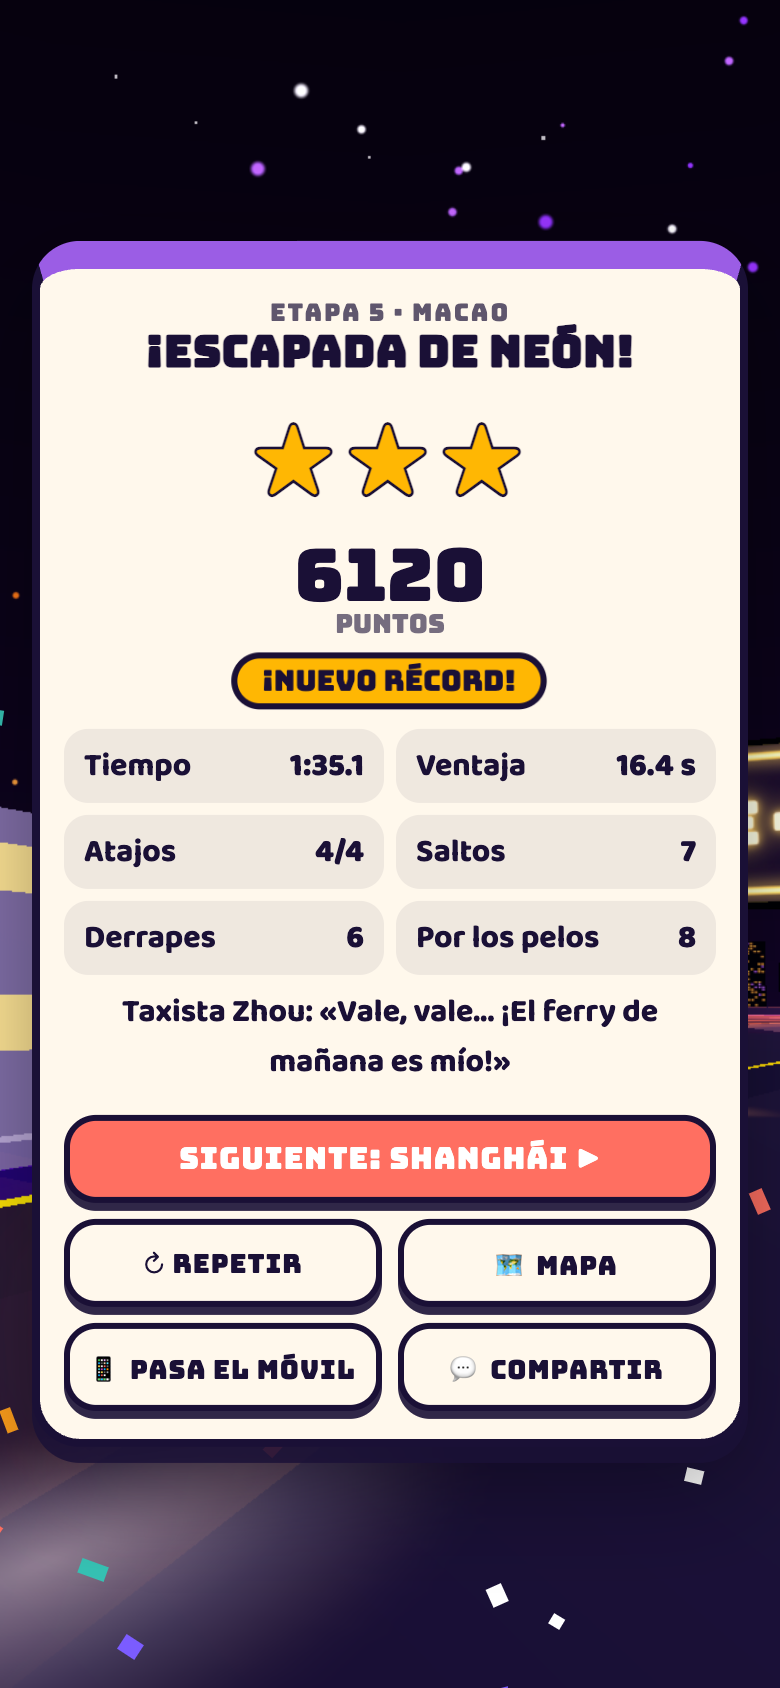
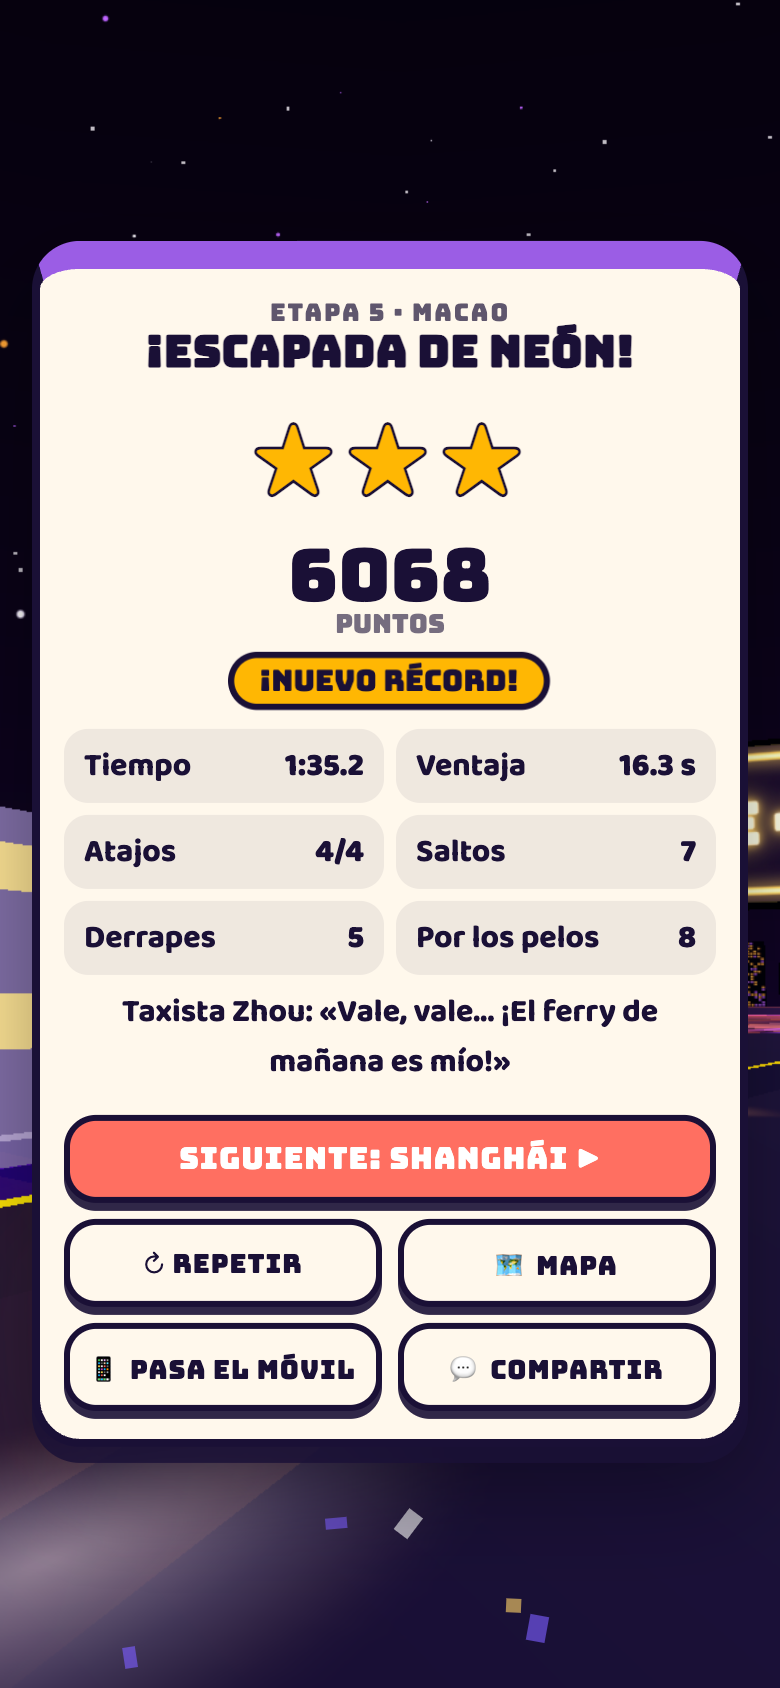
Macao ronda 3: retrovisor solo con el taxi cerca, HUD opaco, llegada como cinemática

diff --git a/src/stages/macao/index.js b/src/stages/macao/index.js
@@ -392,7 +392,7 @@ export default {
               world.throwFruit(c.p, fwd, st.speed);
               fx.emit(5, c.p, { colors: ['#ffb347', '#ff6b6b'], vel: { x: fwd.x * 3, y: 3, z: fwd.z * 3 }, velSpread: 3, life: 0.5, size: 0.18, gravity: -12 });
               ctx.audio.sfx('hit', { vol: 0.5, pitch: 1.4 }); ctx.engine.shake(0.15);
-              if (st.crates % 3 === 1) shout('¡FRUTA AL AIRE!', { size: 'peque', color: '#8ac926' });
+              if (st.crates % 3 === 1) shout('¡FRUTA AL AIRE!', { size: 'peque', color: '#ffe66d' });
             }
           });
         }
@@ -491,13 +491,13 @@ export default {
 
         // retrovisor: solo cuando el taxi va cerca por detrás
         const gap = st.prog - tx.s;
-        let mirrorOn = st.running && !st.done && gap > 2 && gap < 55 && engine.qualityName !== 'baja' && !engine.battery;
+        let mirrorOn = st.running && !st.done && gap > 2 && gap < 40 && engine.qualityName !== 'baja' && !engine.battery;
         if (mirrorOn) {
           const r = ui.mirrorRect;
           mirrorCam.aspect = r.w / r.h; mirrorCam.updateProjectionMatrix();
           const yb = new THREE.Vector3(-Math.sin(st.yaw), 0, -Math.cos(st.yaw));
-          mirrorCam.position.set(pos.x + yb.x * 2.3, st.y + 1.35, pos.z + yb.z * 2.3);
-          mirrorCam.lookAt(pos.x + yb.x * 30, st.y + 0.6, pos.z + yb.z * 30);
+          mirrorCam.position.set(pos.x + yb.x * 2.3, st.y + 1.5, pos.z + yb.z * 2.3);
+          { const tp = taxi.group.position; mirrorCam.lookAt(tp.x, tp.y + 0.8, tp.z); mirrorCam.fov = clamp(2 * Math.atan(3.2 / Math.max(4, gap)) * 180 / Math.PI, 12, 48); mirrorCam.updateProjectionMatrix(); }
           mirrorCam.updateMatrixWorld();
           tmpV.copy(taxi.group.position); tmpV.y += 1; tmpV.project(mirrorCam);
           mirrorOn = tmpV.z < 1 && Math.abs(tmpV.x) < 0.9 && Math.abs(tmpV.y) < 0.95;
@@ -628,7 +628,7 @@ export default {
       st.done = true; st.win = win; st.running = false; st.endT = 0;
       st.drifting = false; st.boostT = 0;
       st.lead = win ? Math.max(0, leadNow()) : 0;
-      ctx.input.hideTouch(); ui.warn(false);
+      ctx.input.hideTouch(); ui.warn(false); if (ctx.cinematic) ctx.cinematic(true);
       ui.showMirror(false);
       if (win) {
         engine.slowmo(1.1, 0.3);

diff --git a/src/stages/macao/hud-macao.js b/src/stages/macao/hud-macao.js
@@ -22,7 +22,7 @@ const CSS = `
 .mc-aviso{font-size:17px;color:#fff;background:linear-gradient(90deg,#ff4fd8,#9b5de5);padding:5px 14px;border-radius:12px;border:3px solid #1a1036;box-shadow:0 0 14px #ff4fd8;animation:mcLat .3s infinite alternate;letter-spacing:.5px}
 .mc-avisobox{white-space:nowrap;position:fixed;left:50%;transform:translateX(-50%);z-index:3;font-family:Bungee,sans-serif;transition:opacity .15s}
 @media (max-width:430px){.mc-aviso{font-size:13px;padding:4px 10px}}
-.hud.tema-macao .hud-item{background:rgba(30,10,58,.78);border-color:rgba(199,125,255,.45)}
+.hud.tema-macao .hud-item{background:rgba(26,8,50,.96);border-color:rgba(199,125,255,.45)}
 @media (max-width:430px){.mc-ruta{min-width:150px}.hud.tema-macao .hud-izq .hud-item{font-size:15px;padding:4px 9px}.mc-gap{font-size:11px}}
 `;
 
